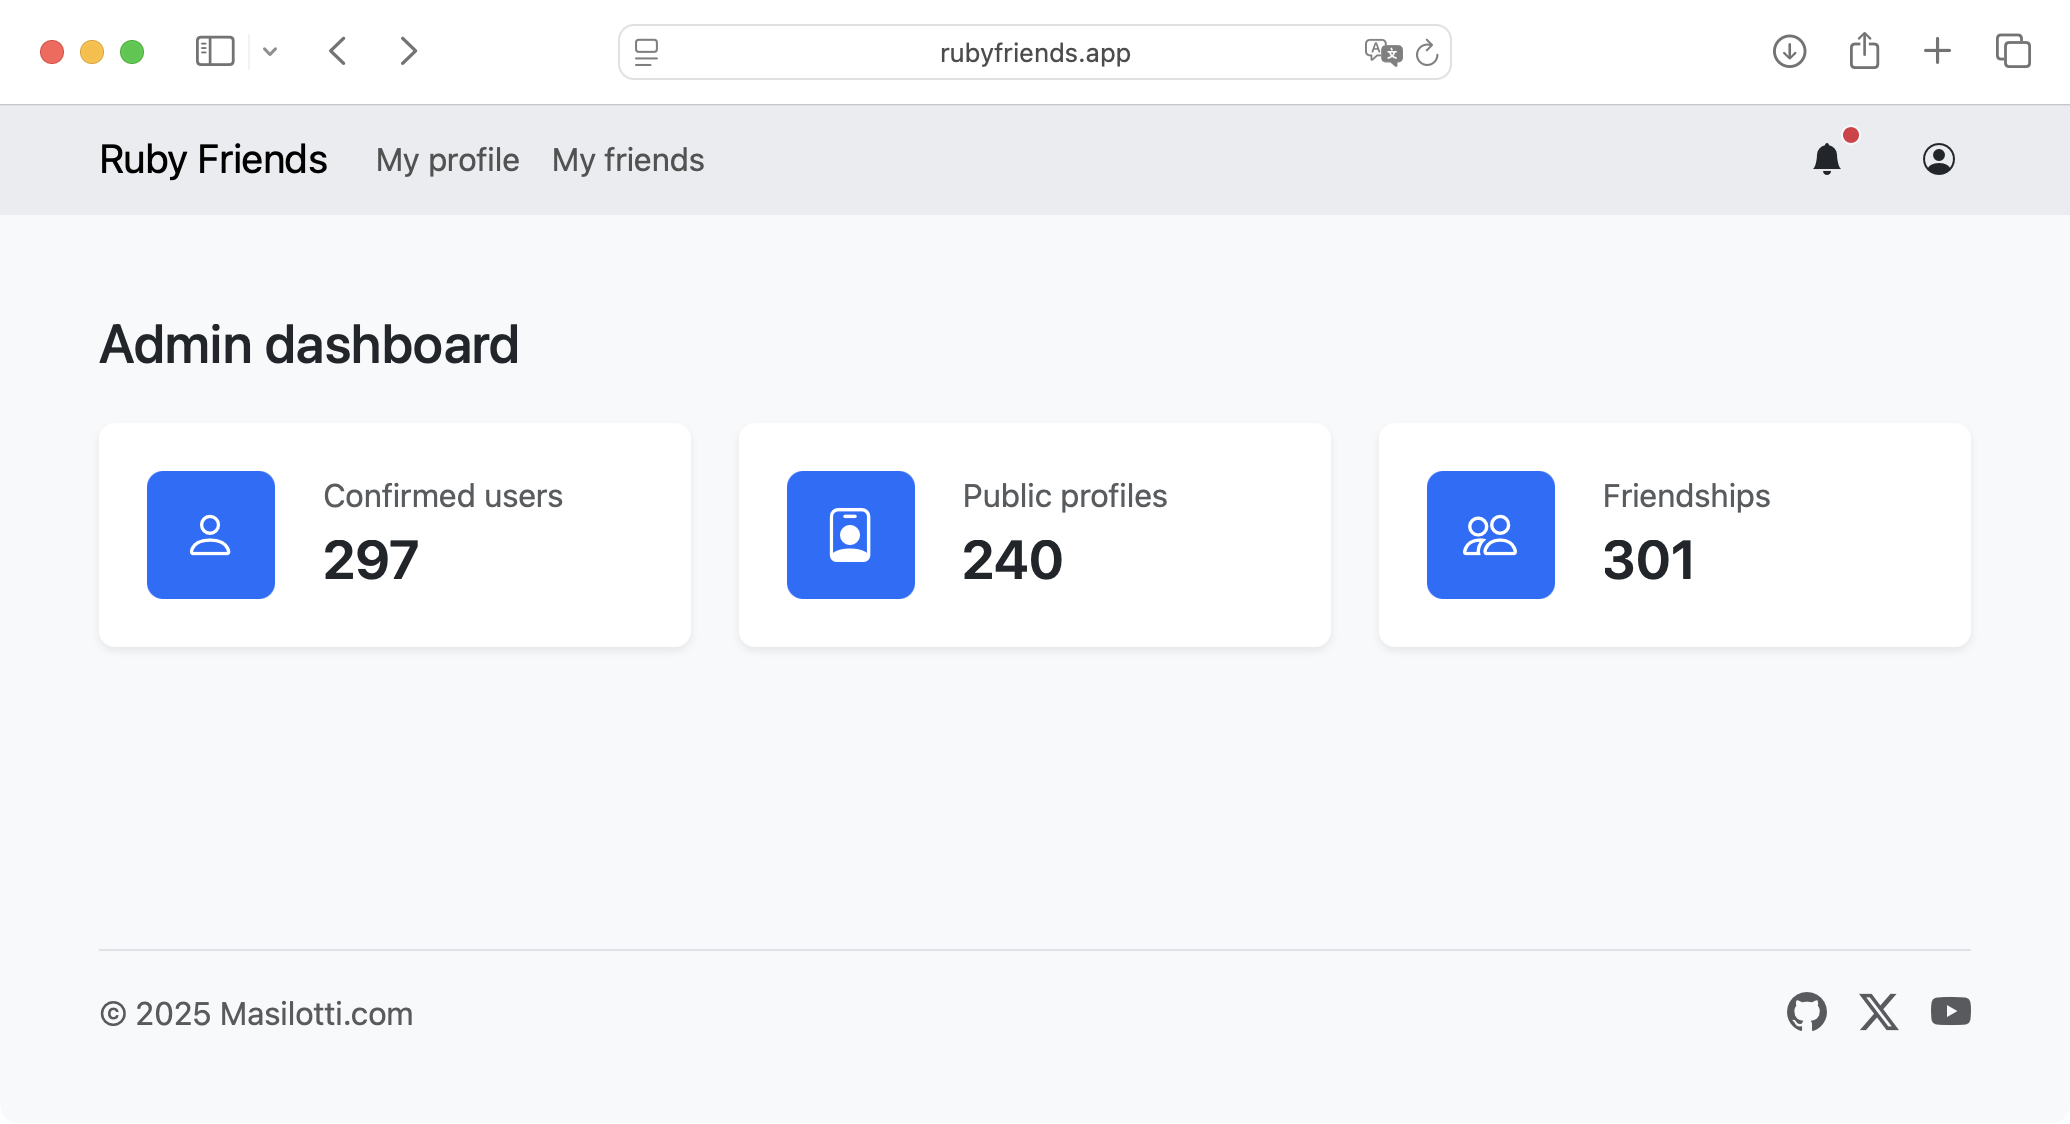
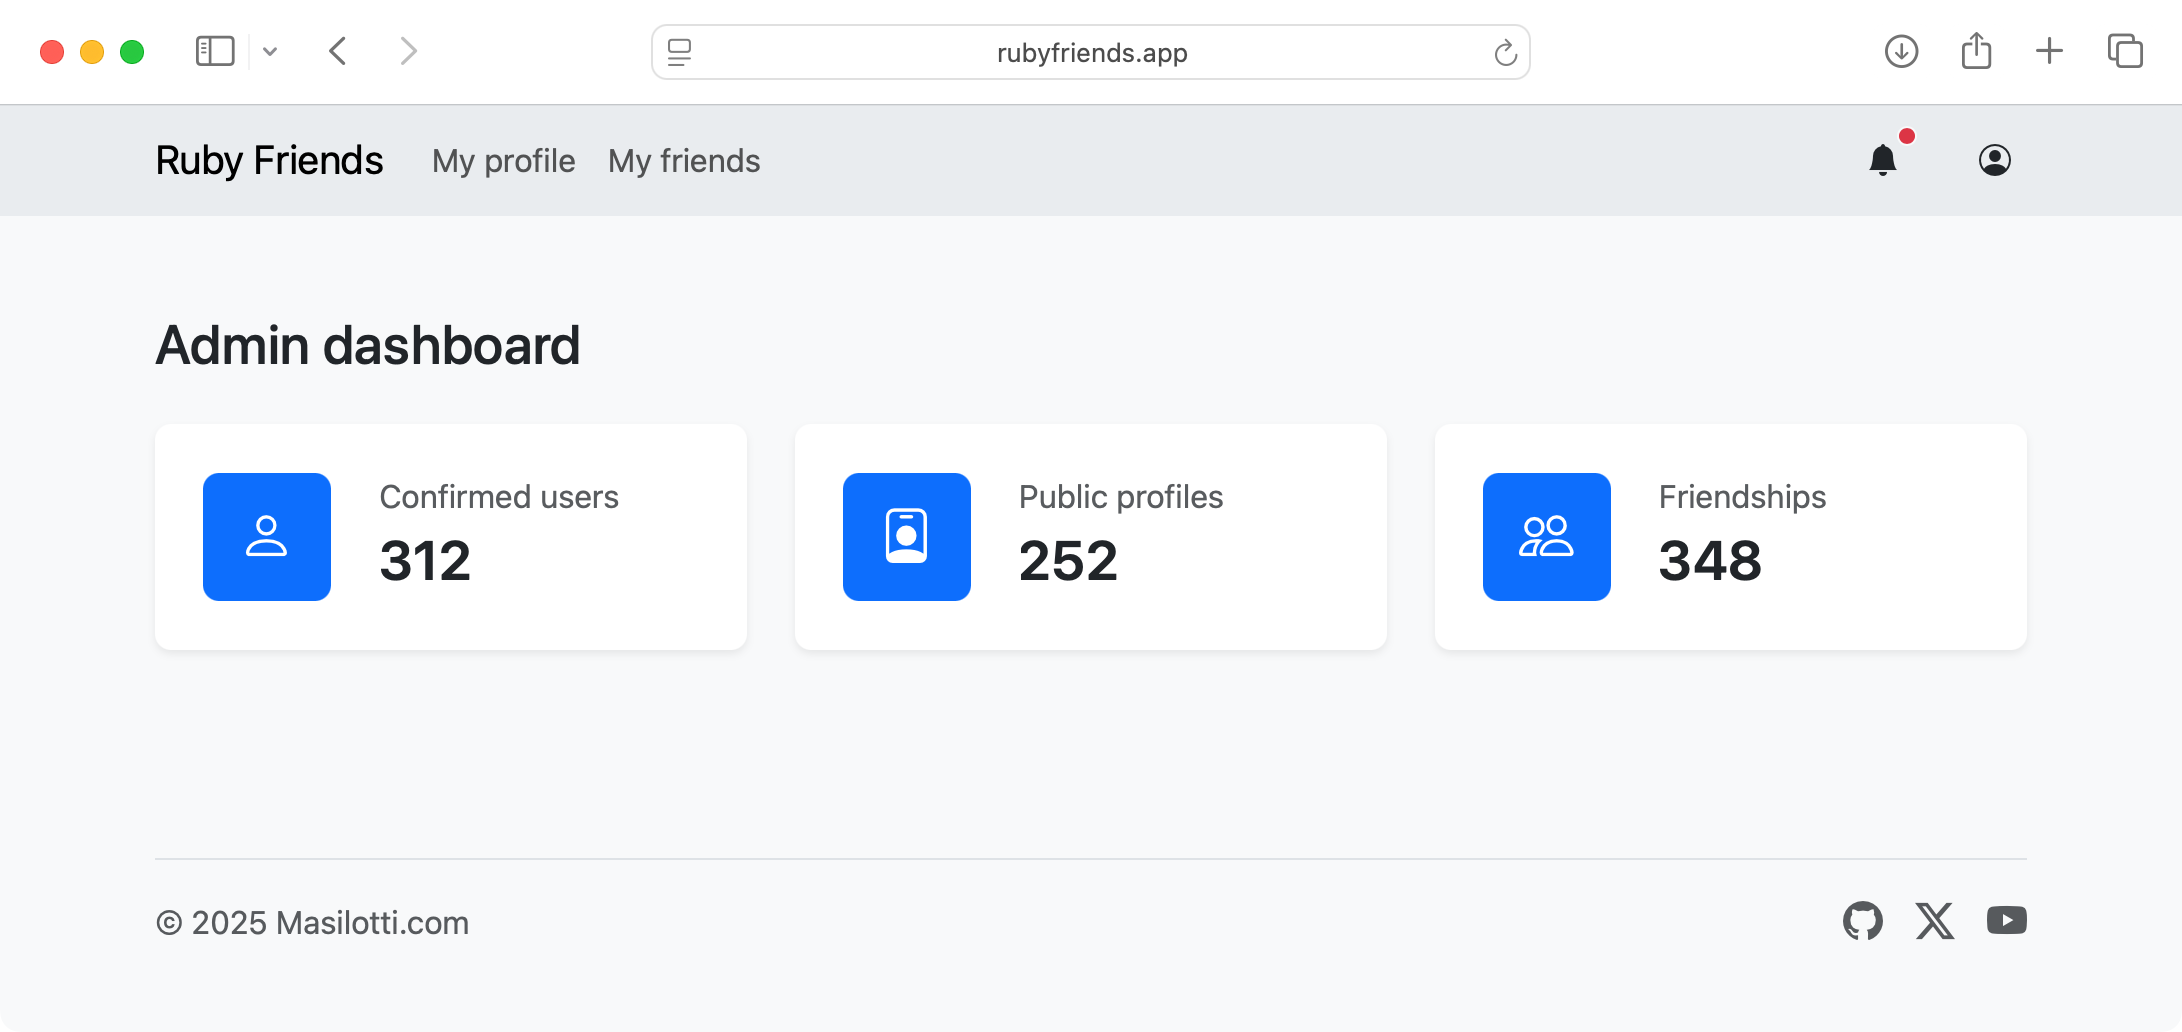
TestFlight -> App Store

diff --git a/_posts/newsletter/2025-07-23-ruby-friends-in-the-app-store.md b/_posts/newsletter/2025-07-23-ruby-friends-in-the-app-store.md
@@ -1,0 +1,95 @@
+---
+title: "Ruby Friends is in the App Store!"
+date: 2025-07-23
+description: "250+ Rubyists have already joined. Want to make a new friend next time you say \"hello world\"?"
+---
+
+12 days after the first commit, Ruby Friends is officially live in the [App Store](https://apps.apple.com/us/app/ruby-friends/id6748887042)!
+
+[![](/assets/images/newsletter/download-on-the-app-store.png)](https://apps.apple.com/us/app/ruby-friends/id6748887042)
+
+What's Ruby Friends? Dave Thomas sums it up nicely in his [latest newsletter](https://media.pragprog.com/newsletters/2025-07-17.html):
+
+> You create a profile, and it gives you a URL and a QR code. When you chat with people [at a conference or meetup], they can scan your code to see your profile, and if they want to, they can add you as a friend. And that's it. No posts, no transitive-closures of connections; just you and a list of people who wanted you to remember them.
+
+Think of it like a conference companion that helps turn introductions into friendships. I've been building it in public on [my YouTube channel](https://www.youtube.com/@joemasilotti).
+
+## 100 profiles in 48 hours… now 250 and counting
+
+This blew me away.
+
+Within 48 hours of launch, Ruby Friends hit 100 profiles.
+
+Lucky profile #100? [Erin](https://rubyfriends.app/profiles/FFCZ) - congrats and thanks for being part of this!
+
+Since then, we’ve more than doubled that. As of writing, there are over 250 Ruby Friends using the app. That means more than 250 chances to meet someone new, start a conversation, and reconnect later.
+
+![Ruby Friends admin screen](/assets/images/newsletter/ruby-friends-admin.png){:standalone}
+
+## A peek at the app
+
+Here’s a quick look at what's live in v1.0:
+
+![Ruby Friends app](/assets/images/newsletter/ruby-friends-app.png){:standalone .unstyled}
+
+You can create your profile, add other Ruby Friends, and manage your notifications. Super simple - and super early. But it’s already working. Up next? Push notifications, of course!
+
+## Building it live
+
+If you missed it, I started building the iOS app live on stream. We covered:
+
+- Spinning up the iOS app from scratch  
+- Adding a native tab bar  
+- Wiring up the sign-in flow with Hotwire Native  
+
+You can [watch the full session here](https://www.youtube.com/live/UuONfuzjTfA?si=8xo5nb4xcfVbhlg7).
+
+At first, I tried configuring the tabs after the user signed in. It worked… kind of. But it felt messy. So I tossed it and found something better: swapping the `rootViewController` once the user creates a profile.
+
+At a high level, here's what my `SceneDelegate` is doing. It renders a single `Navigator` on every app launch.
+
+```swift
+class SceneDelegate: UIResponder, UIWindowSceneDelegate {
+    private let navigator = Navigator()
+    private let tabBarController = HotwireTabBarController()
+
+    func scene(_ scene: UIScene, willConnectTo session: UISceneSession ...) {
+        window?.rootViewController = navigator.rootViewController
+        navigator.start()
+    }
+
+    private func didSignIn() {
+        if window?.rootViewController != tabBarController {
+            window?.rootViewController = tabBarController
+        }
+    }
+}
+```
+
+And when the user signs in, a bridge component swaps out the `rootViewController` to the tab bar controller.
+
+```swift
+class AuthenticationComponent: BridgeComponent {
+    override func onReceive(message: Message) {
+        guard let data: MessageData = message.data() else { return }
+
+        if data.profileURL != nil {
+            SceneController.didSignIn()
+        }
+    }
+}
+```
+
+I’ll dive into that code in the next stream, tomorrow (Thursday). Come say hi!
+
+<iframe class="w-full aspect-video" src="https://www.youtube-nocookie.com/embed/i8-1nWPc_OA?si=S1JUHgkGtlq-i4IO" title="YouTube video player" frameborder="0" allow="accelerometer; autoplay; clipboard-write; encrypted-media; gyroscope; picture-in-picture; web-share" referrerpolicy="strict-origin-when-cross-origin" allowfullscreen></iframe>
+
+---
+
+That’s it for this week.
+
+If you haven’t already, [download Ruby Friends from the App Store](https://apps.apple.com/us/app/ruby-friends/id6748887042), create a profile, and meet a new Ruby Friend. Or two. Or five.
+
+And if you’re enjoying it, forward this to someone you think might like it too. The more the merrier.
+
+P.S. If you're organizing a Ruby conference, then let me know! Maybe we can get some Ruby Friends QR codes printed on the badges.
